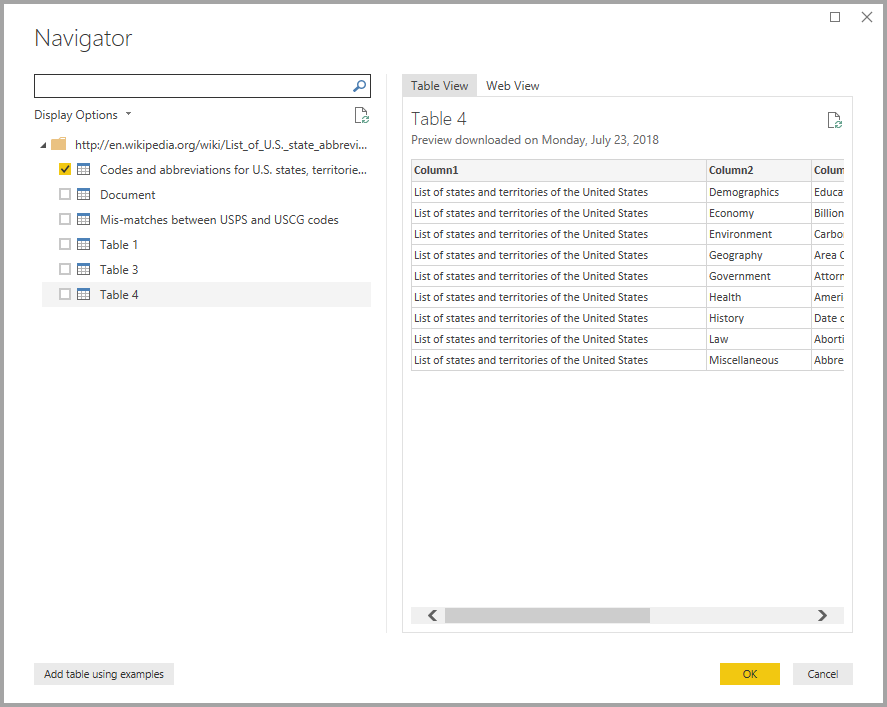
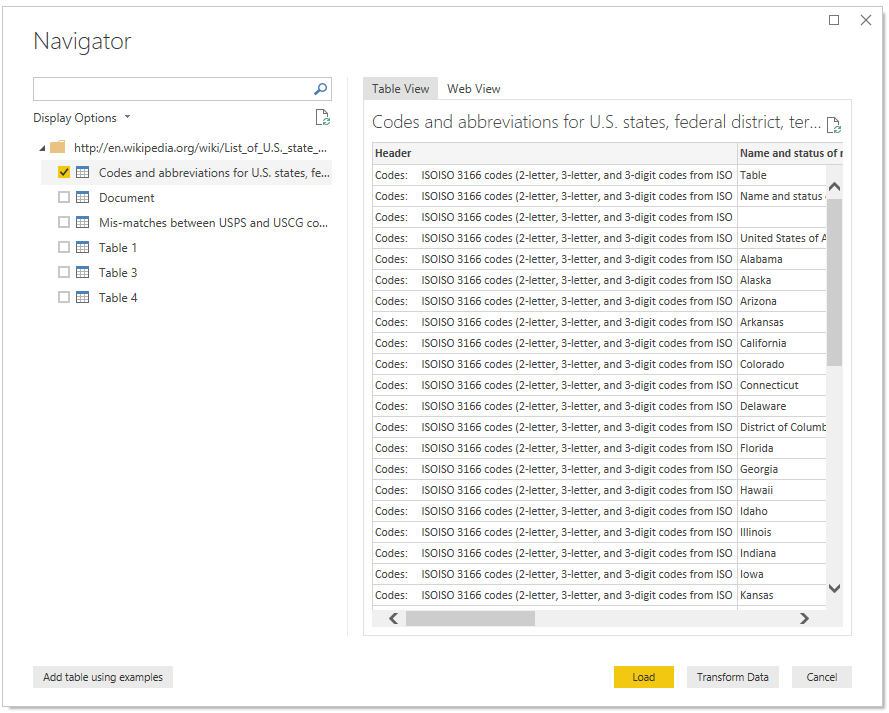
Updating a button and graphic to fix bug.

diff --git a/learn-bizapps-pr/power-bi/build-your-first-power-bi-report/includes/3-clean-and-transform-data-with-power-query-editor.md b/learn-bizapps-pr/power-bi/build-your-first-power-bi-report/includes/3-clean-and-transform-data-with-power-query-editor.md
@@ -43,7 +43,7 @@ In **Power Query Editor**, on the **Home** tab on the ribbon, select **New Sourc
 
 Select the **Codes and abbreviations...** table, because it includes the data we want, although it's going to take quite a bit of shaping to pare down that data. 
 
-Select **OK** to bring the data into **Power Query Editor** so that we can shape it. Then follow these steps:
+Select **Load** to bring the data into **Power Query Editor** so that we can shape it. Then follow these steps:
 
 * **Remove the top three rows** – Those rows are a result of the way the webpage's table was created, and we don't need them. To remove them, on the **Home** tab on the ribbon, select **Remove rows \> Remove Top Rows**. In the dialog box that appears, enter *3* as the number of rows to remove.
 
